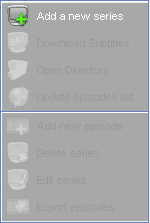
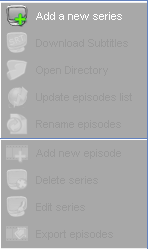
Update series popup help (closes issue 16)

diff --git a/src/help/html/series_popup.html b/src/help/html/series_popup.html
@@ -21,6 +21,8 @@
           <li><b>Open ... directory:</b>Opens the default browser and navigates to the local directory that contains the series episodes
           (The link is provided in the [<span class="link">Add/Edit Series Panel</span>]).</li>
           <li><b>Update... Episodes list:</b>Connects to internet and downloads episodes data of the current selected series.</li>
+          <li><b>Rename... Episodes:</b>Renames the video and subtitles files according to the titles in the database.You can set the renaming
+            options in the [<span class="link">Renaming episodes Panel</span>].</li>
           <li><b>Add New Episode...:</b>Brings up the [<span class="link">Add new episode Panel</span>]
           for adding a new episode to the current series.</li>
           <li><b>Delete Series:</b>Deletes the current series (and its episodes) from the database.</li>

diff --git a/src/help/Links.java b/src/help/Links.java
@@ -32,6 +32,7 @@ public class Links {
     links.put("Add/Edit Series Panel","series_administration");
     links.put("Add new Series Panel","series_administration");
     links.put("Add new episode Panel","episodes_administration");
+    links.put("Renaming episodes Panel","episodes_renaming");
   }
 
   private Links() {
